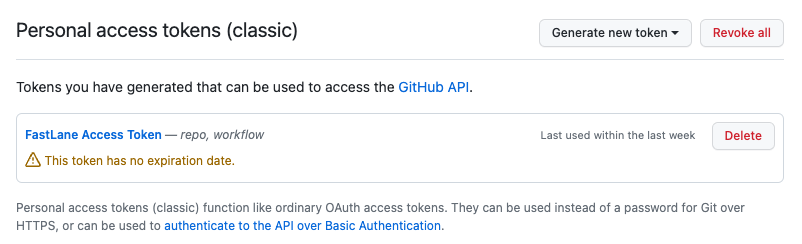
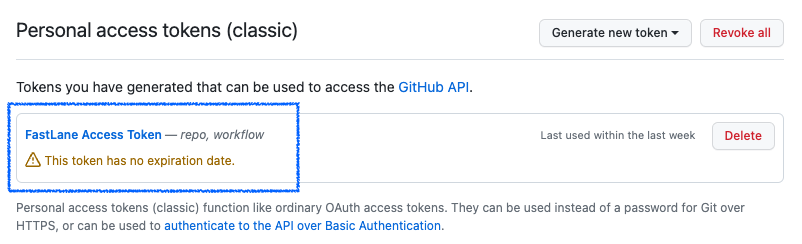
update token permissions instructions

Changed region(s): [[0.0, 0.4016, 0.3741, 0.8033]]

diff --git a/docs/gh-actions/gh-update.md b/docs/gh-actions/gh-update.md
@@ -160,25 +160,57 @@ In the Loop app, once installed on your phone, tap on `Settings -> Support -> Is
 
 ## *GitHub* Token
 
-If your *GitHub* Personal Access Token has not expired and you don't want to regenerate it, you don't need this section.
+Your &nbsp;<span translate="no">GitHub Personal Access Token</span> should be configured:
 
-If you want to follow the new recommendation of using a *GitHub* Personal Access Token that never expires, you can regenerate the new one at any time.
+* `Never expire`
+* `repo, workflow` permission scope
+
+If you are not logged in to *GitHub* and have not logged in recently, then you may see the authentication screen when doing the steps below.
+
+Authenticate if requested by clicking on the green `Send SMS` button or entering your password.
+
+![two-factor authentication for access to tokens](img/gh-sms-access-screen.png){width="300"}
+{align="center"}
+
+Once you are authenticated, you will have access to view your personal access token.
+
+### Modify Personal Access Token
+
+If your Personal Access Token has not expired but does not have the correct permission, you should modify it. Do not regenerate it.
+
+Click on the link to view your token and compare it to the graphic below.
+
+* [Link to access your Personal Access Token](https://github.com/settings/tokens)
+
+![access token with correct permissions](img/gh-token-correct-permission.png){width="600"}
+{align="center"}
+
+The graphic above has a blue rectangle added to indicate where you should see your token. If yours does not look like this, click on the link (`FastLane Access Token`) to open a new display. Watch the GIF below - there are 4 frames, the last one has the Update token button.
+
+1. Click on the link (`FastLane Access Token`) to open a new display
+1. This example has no workflow or repo checks in it
+1. Add a check to the workflow box
+1. Scroll all the way to the bottom of the screen and click on the green `Update token` button
+
+![configure access token permissions](img/update-personal-access-token.gif ){width="600"}
+{align="center"}
+
+After you click on the `Update token` button, your `FastLane Access Token` should now show `repo, workflow` and look like the earlier graphic above.
+
+The only reason to regenerate a token is if it is set to expire. Do not do the next section unless you have to.
+
+### Regenerate *GitHub* Token
+
+If your Personal Access Token has expired or has an expiration date, you can regenerate the new one at any time.
 
 !!! tip "Update new GH_PAT to Secrets"
     After you get your new token, immediately add it to your Secrets for any app you build with this method. You don't have to rebuild the app, but it's a good idea to at least run Action 1. Verify Secrets for each repository to make sure you did not make a mistake.
-
-### Regenerate *GitHub* Token
 
 You can regenerate your *GitHub* Personal Access Token at any time by clicking on the link below. (Right-click, control-click to open in a new browser tab.)
 
 * [Link to access your *GitHub* Personal Access Token](https://github.com/settings/tokens)
 
-If you are not logged in to *GitHub* and have not logged in recently, then you may see the authentication screen. Click on the link below, and authenticate if requested by clicking on the green `Send SMS` button or entering your password.
-
-![two-factor authentication for access to tokens](img/gh-sms-access-screen.png){width="300"}
-{align="center"}
-
-Once you are authenticated, your screen should be similar to the graphic below. The `FastLane Access Token` is a clickable link.
+The `FastLane Access Token` is a clickable link.
 
 ![list of personal access tokens on github](img/gh-token-list.png){width="600"}
 {align="center"}
@@ -216,25 +248,16 @@ The next step is to update GH_PAT in your LoopWorkspace Repository Secrets. (If 
 
 This example is for updating GH_PAT in the Secrets for your repository, but the same method can be applied when changing any Secret.
 
-This can be done with the *GitHub* Personal Access Token still in your paste buffer - but to be safe, save the token with your other secret settings. If you lose track, just [Regenerate *GitHub* Token](#regenerate-github-token) again.
+Open the repository for which you will update Secrets. On the far right is a Settings selection. If you don't see Settings (if last item on row is Insights), then you are **not** on your fork or you need to sign in to your *GitHub* account. You should see `username/LoopWorkspace` with forked from `LoopKit/LoopWorkspace` underneath.
 
-The graphics and instructions in this section are using a phone. This was done just to prove we weren't kidding when we said you can do it all on your phone. Most people use a computer browser.
+Refer to the GIF for help. There are 3 frames.
 
-Scroll all the way up to the top of the window to see the hamburger menu, click on it and choose your name and icon (near bottom of the list). Scroll down to the LoopWorkspace repository and tap on the link.
-
-Do a horizontal scroll (required on your phone, probably not on a browser) on the row that starts with Code and ends in Settings and tap on Settings. If you don't see Settings (if last item on row is Insights), then you are **not** on your fork or you need to sign in to your *GitHub* account. You should see `username/LoopWorkspace` with forked from `LoopKit/LoopWorkspace` underneath.
-
-Review the GIF below that shows horizontal scroll to find and tap on Settings, then scroll down on the phone to reach "Secrets and variables", open the drop down indicator to see Actions.
-
-![phone screens showing the repository settings, secrets and actions](img/phone-with-settings.gif){width="300"}
+![screen showing repository secrets list](img/update-secret-gh-pat.gif){width="500"}
 {align="center"}
 
-After tapping on Settings -> Secrets and Variables -> Actions, keep scrolling on the same screen, past the Action secrets / New repository secret row, until you see your Repository secrets list as shown in the next GIF.
-
-![phone screen showing repository secrets list](img/phone-secret-list.gif){width="300"}
-{align="center"}
-
-When you see the secret, GH_PAT, tap on the pencil and then scroll down until you see the Actions secrets / Update secret dialog as shown in the next graphic. Paste your new token into the Value section and tap Update Secret.
+1. Tap on Settings, then scroll down see "Secrets and variables" on the left side and click on the drop down indicator to see Actions.
+1. Keep scrolling on the same screen, past the Action secrets / New repository secret row, until you see your Repository secrets list. 
+1. Click on the GH_PAT, tap on the pencil and enter the new token in the form. Click on Update Secret to complete the action.
 
 ![update secret dialog](img/update-secret-dialog.png){width="300"}
 {align="center"}
